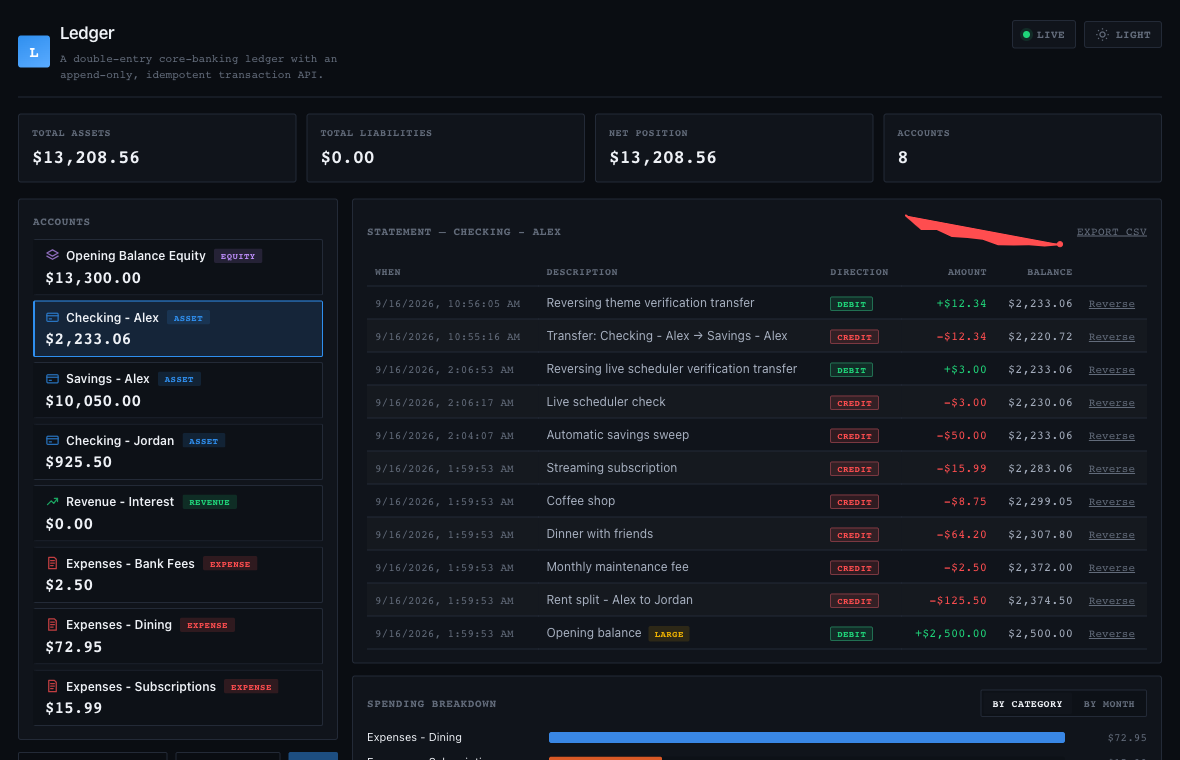
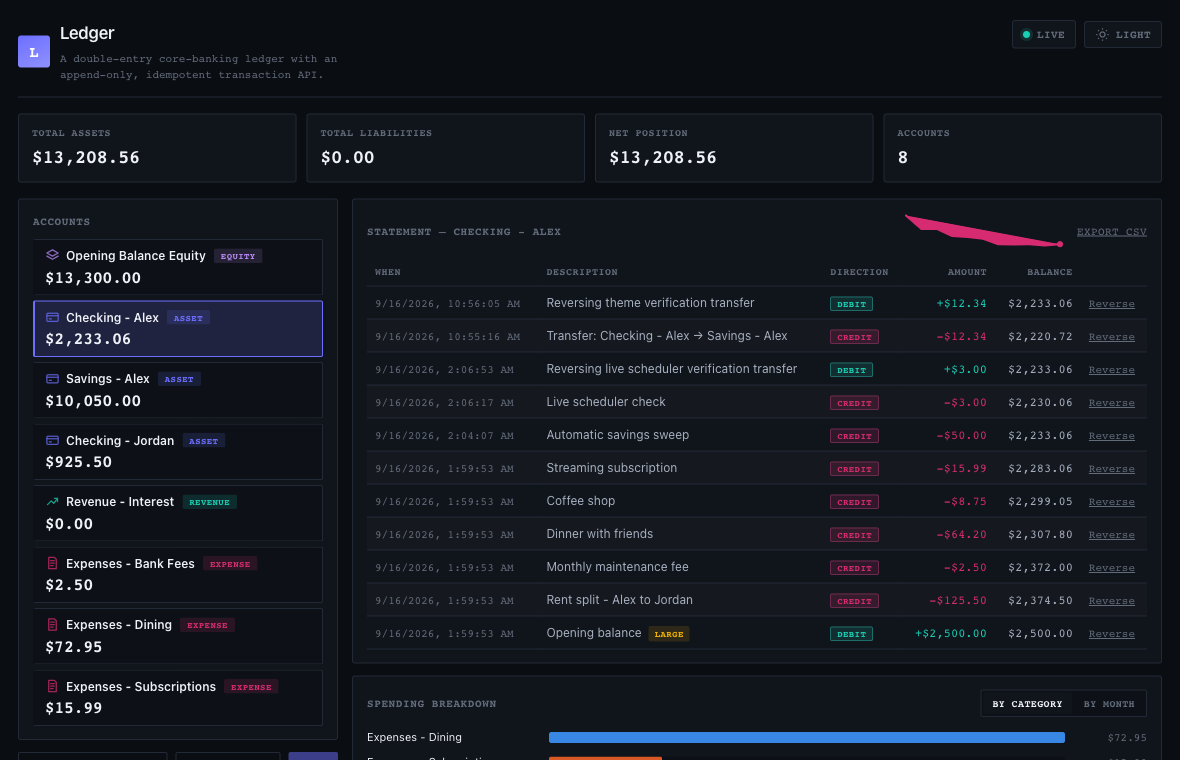
Apply brand color palette to both themes
The accent is now a periwinkle violet (#6D6FFF dark, #418AF2 light).
Increases use teal (#19CEB3 dark, #0AE596 light) and decreases use
magenta (#D62B70 dark, #E84275 light), so up and down are no longer
green and red. This is applied to buttons, badges, the sparkline, chart
bars, and the account flash.

Backgrounds, borders, and the amber warning color are unchanged. The
categorical chart palette also stays the same because it is a separate
colorblind safe set and not a brand color.

diff --git a/web/src/index.css b/web/src/index.css
@@ -1,33 +1,34 @@
 :root {
-  /* OMS/EMS trading-terminal palette (FlexTrade/Bloomberg-style): near
-     black surface, high-contrast off-white text, vivid green/red for
-     up/down and buy/sell, amber reserved for warnings. This is now the
-     default - the light palette below is still available through the
-     theme toggle, but the terminal look is what the app opens with. */
+  /* OMS/EMS trading-terminal layout (FlexTrade/Bloomberg-style density
+     and structure) with a brand palette on top: near black surface,
+     high-contrast off-white text, teal for up/increase, magenta for
+     down/decrease, amber reserved for warnings. This is now the default
+     - the light palette below is still available through the theme
+     toggle, but the terminal look is what the app opens with. */
   --text: #a7b0c0;
   --text-h: #eef1f6;
   --bg: #0a0d12;
   --panel-bg: #10141b;
   --panel-bg-subtle: #0d1117;
   --border: #232a37;
-  --accent: #2f8fef;
-  --accent-strong: #5aabff;
-  --accent-bg: rgba(47, 143, 239, 0.14);
-  --positive: #1fd67a;
-  --positive-bg: rgba(31, 214, 122, 0.12);
-  --negative: #ff4d4f;
-  --negative-bg: rgba(255, 77, 79, 0.13);
+  --accent: #6d6fff;
+  --accent-strong: #8f91ff;
+  --accent-bg: rgba(109, 111, 255, 0.16);
+  --positive: #19ceb3;
+  --positive-bg: rgba(25, 206, 179, 0.14);
+  --negative: #d62b70;
+  --negative-bg: rgba(214, 43, 112, 0.16);
   --warning: #f2b400;
   --warning-bg: rgba(242, 180, 0, 0.13);
   --muted: #626b7a;
   --shadow: rgba(0, 0, 0, 0.5) 0 1px 2px, rgba(0, 0, 0, 0.35) 0 6px 16px;
   --stripe: rgba(255, 255, 255, 0.02);
 
-  --type-asset: #2f8fef;
+  --type-asset: #6d6fff;
   --type-liability: #f2b400;
   --type-equity: #b98af5;
-  --type-revenue: #1fd67a;
-  --type-expense: #ff4d4f;
+  --type-revenue: #19ceb3;
+  --type-expense: #d62b70;
 
   /* Categorical chart palette, fixed order, validated for colorblind and
      normal-vision separation on both surfaces.
@@ -61,24 +62,24 @@
   --panel-bg: #ffffff;
   --panel-bg-subtle: #fafbfd;
   --border: #e1e5ee;
-  --accent: #2947a3;
-  --accent-strong: #1c3480;
-  --accent-bg: rgba(41, 71, 163, 0.08);
-  --positive: #12805c;
-  --positive-bg: rgba(18, 128, 92, 0.1);
-  --negative: #b3261e;
-  --negative-bg: rgba(179, 38, 30, 0.09);
+  --accent: #418af2;
+  --accent-strong: #2c6fcf;
+  --accent-bg: rgba(65, 138, 242, 0.1);
+  --positive: #0ae596;
+  --positive-bg: rgba(10, 229, 150, 0.12);
+  --negative: #e84275;
+  --negative-bg: rgba(232, 66, 117, 0.11);
   --warning: #a45c0f;
   --warning-bg: rgba(164, 92, 15, 0.1);
   --muted: #7a8299;
   --shadow: rgba(16, 24, 40, 0.04) 0 1px 2px, rgba(16, 24, 40, 0.06) 0 8px 24px;
   --stripe: rgba(16, 24, 40, 0.015);
 
-  --type-asset: #2947a3;
+  --type-asset: #418af2;
   --type-liability: #a45c0f;
   --type-equity: #6b3fa0;
-  --type-revenue: #12805c;
-  --type-expense: #b3261e;
+  --type-revenue: #0ae596;
+  --type-expense: #e84275;
 
   --cat-1: #2a78d6;
   --cat-2: #eb6834;
